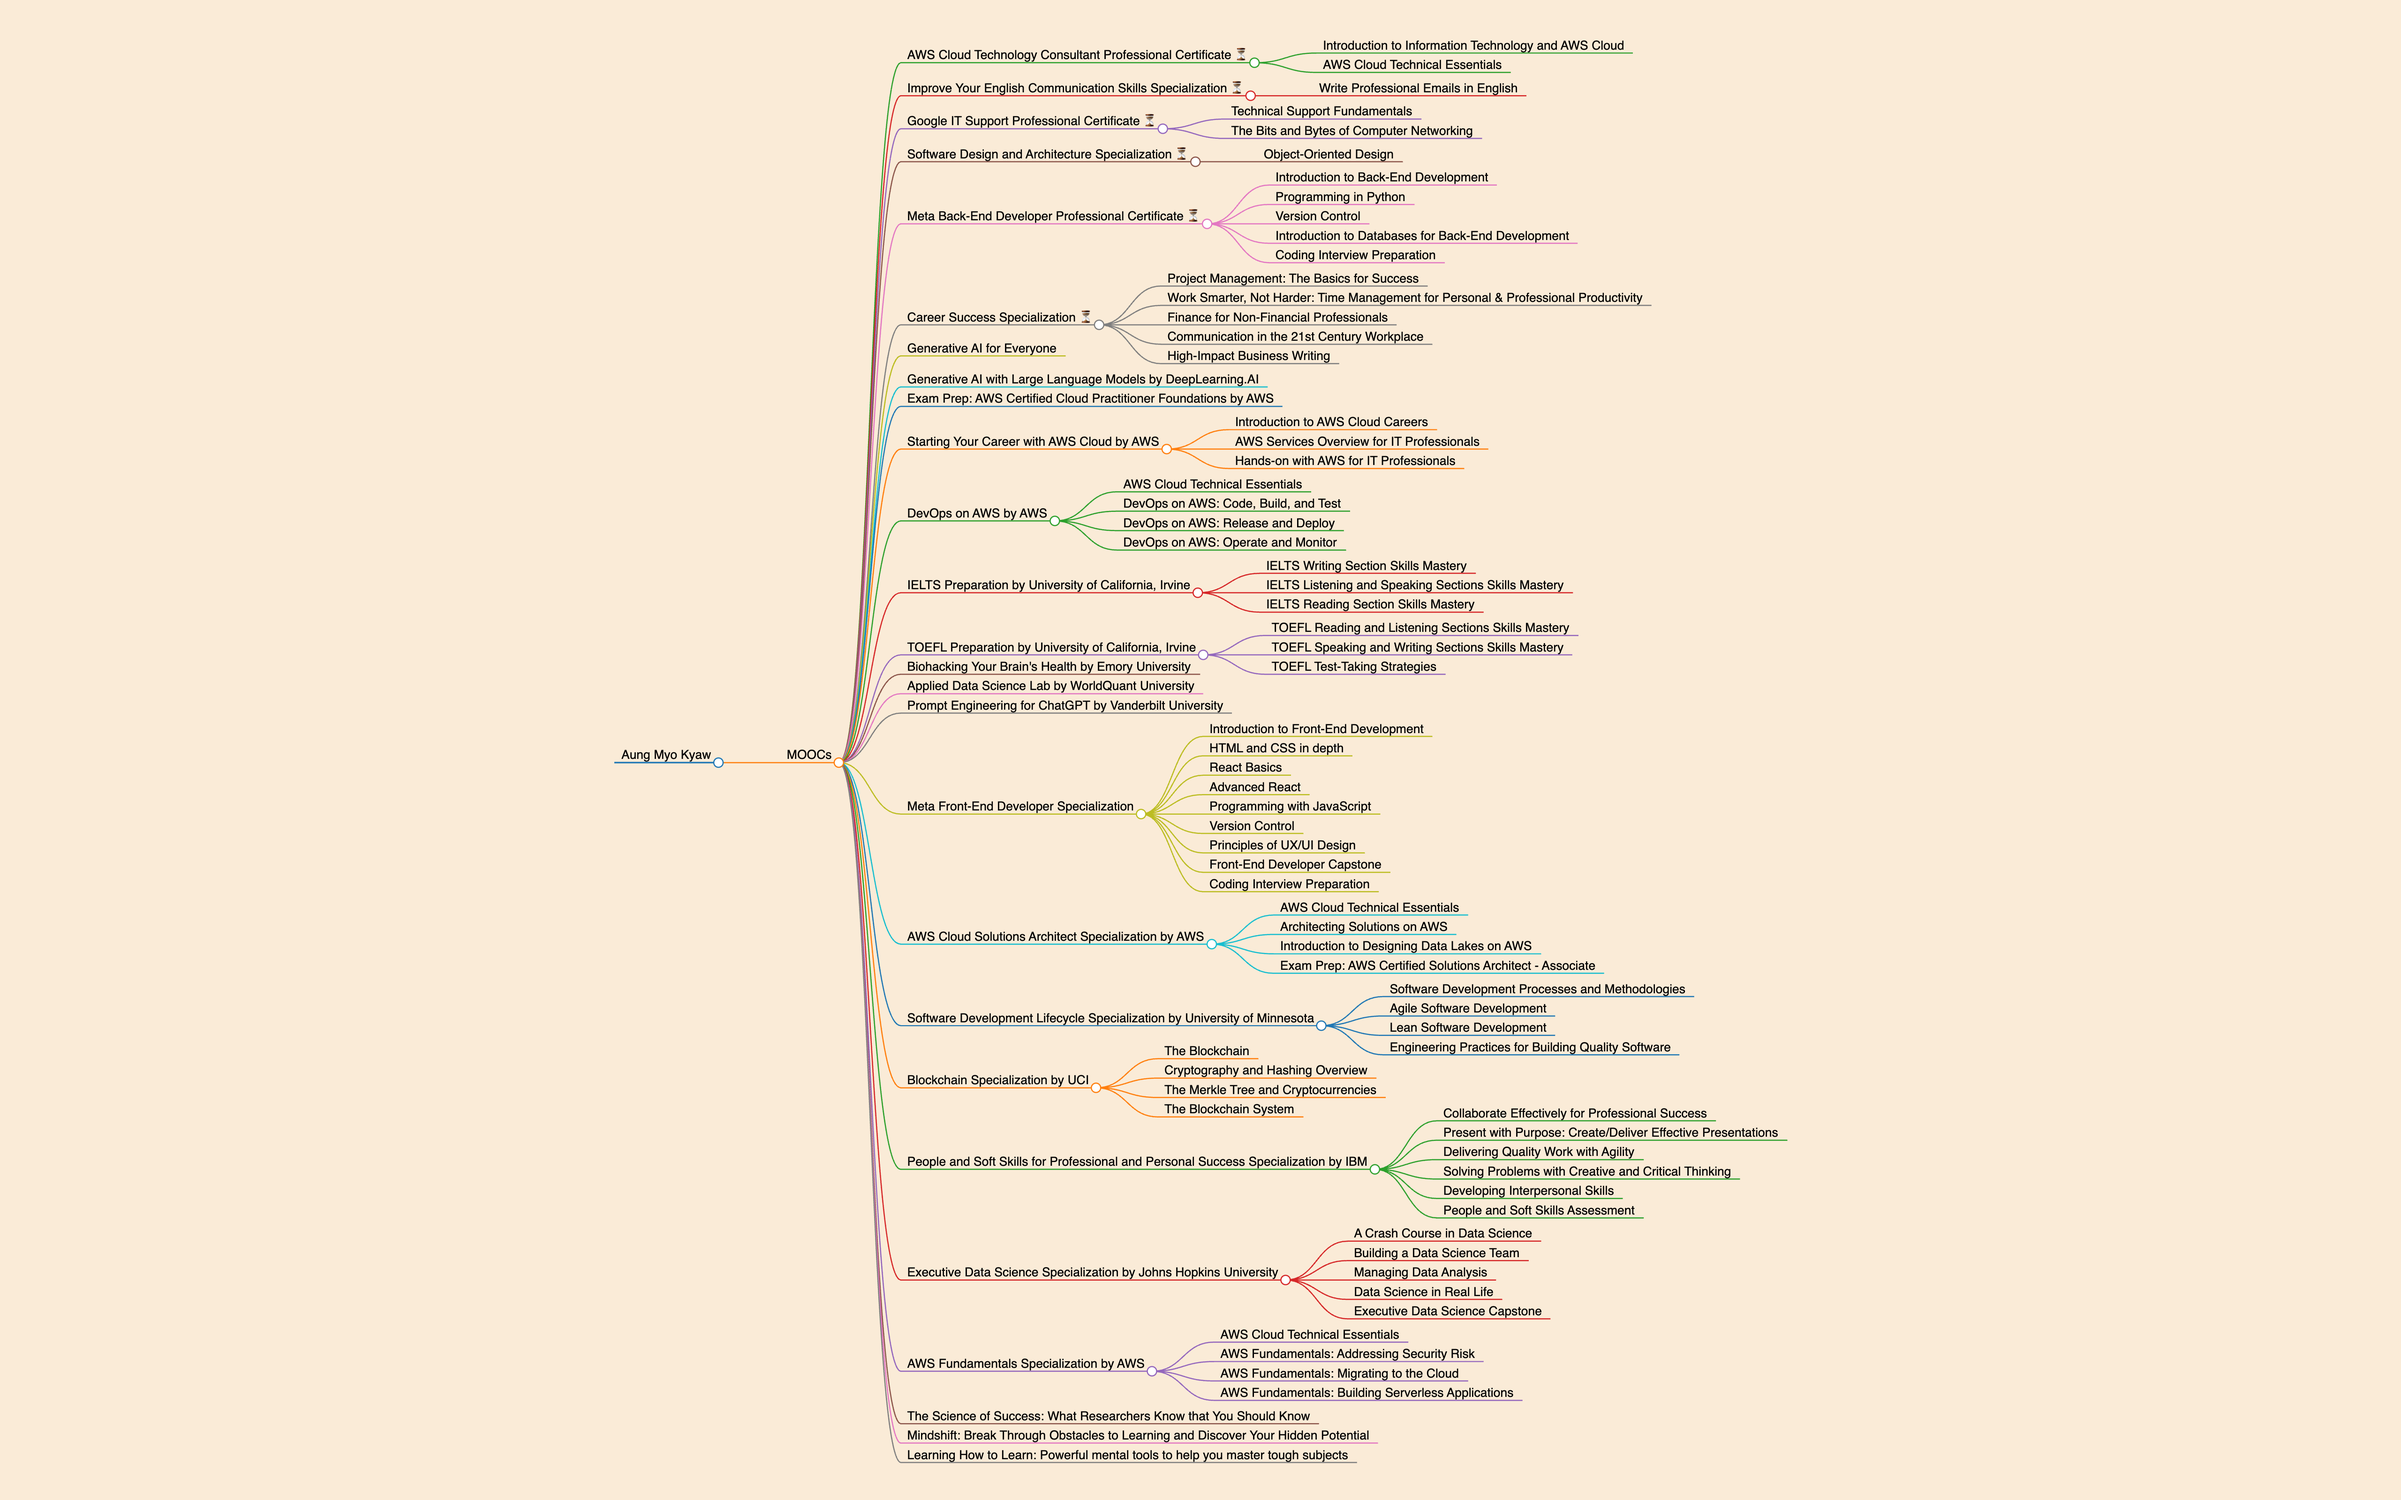
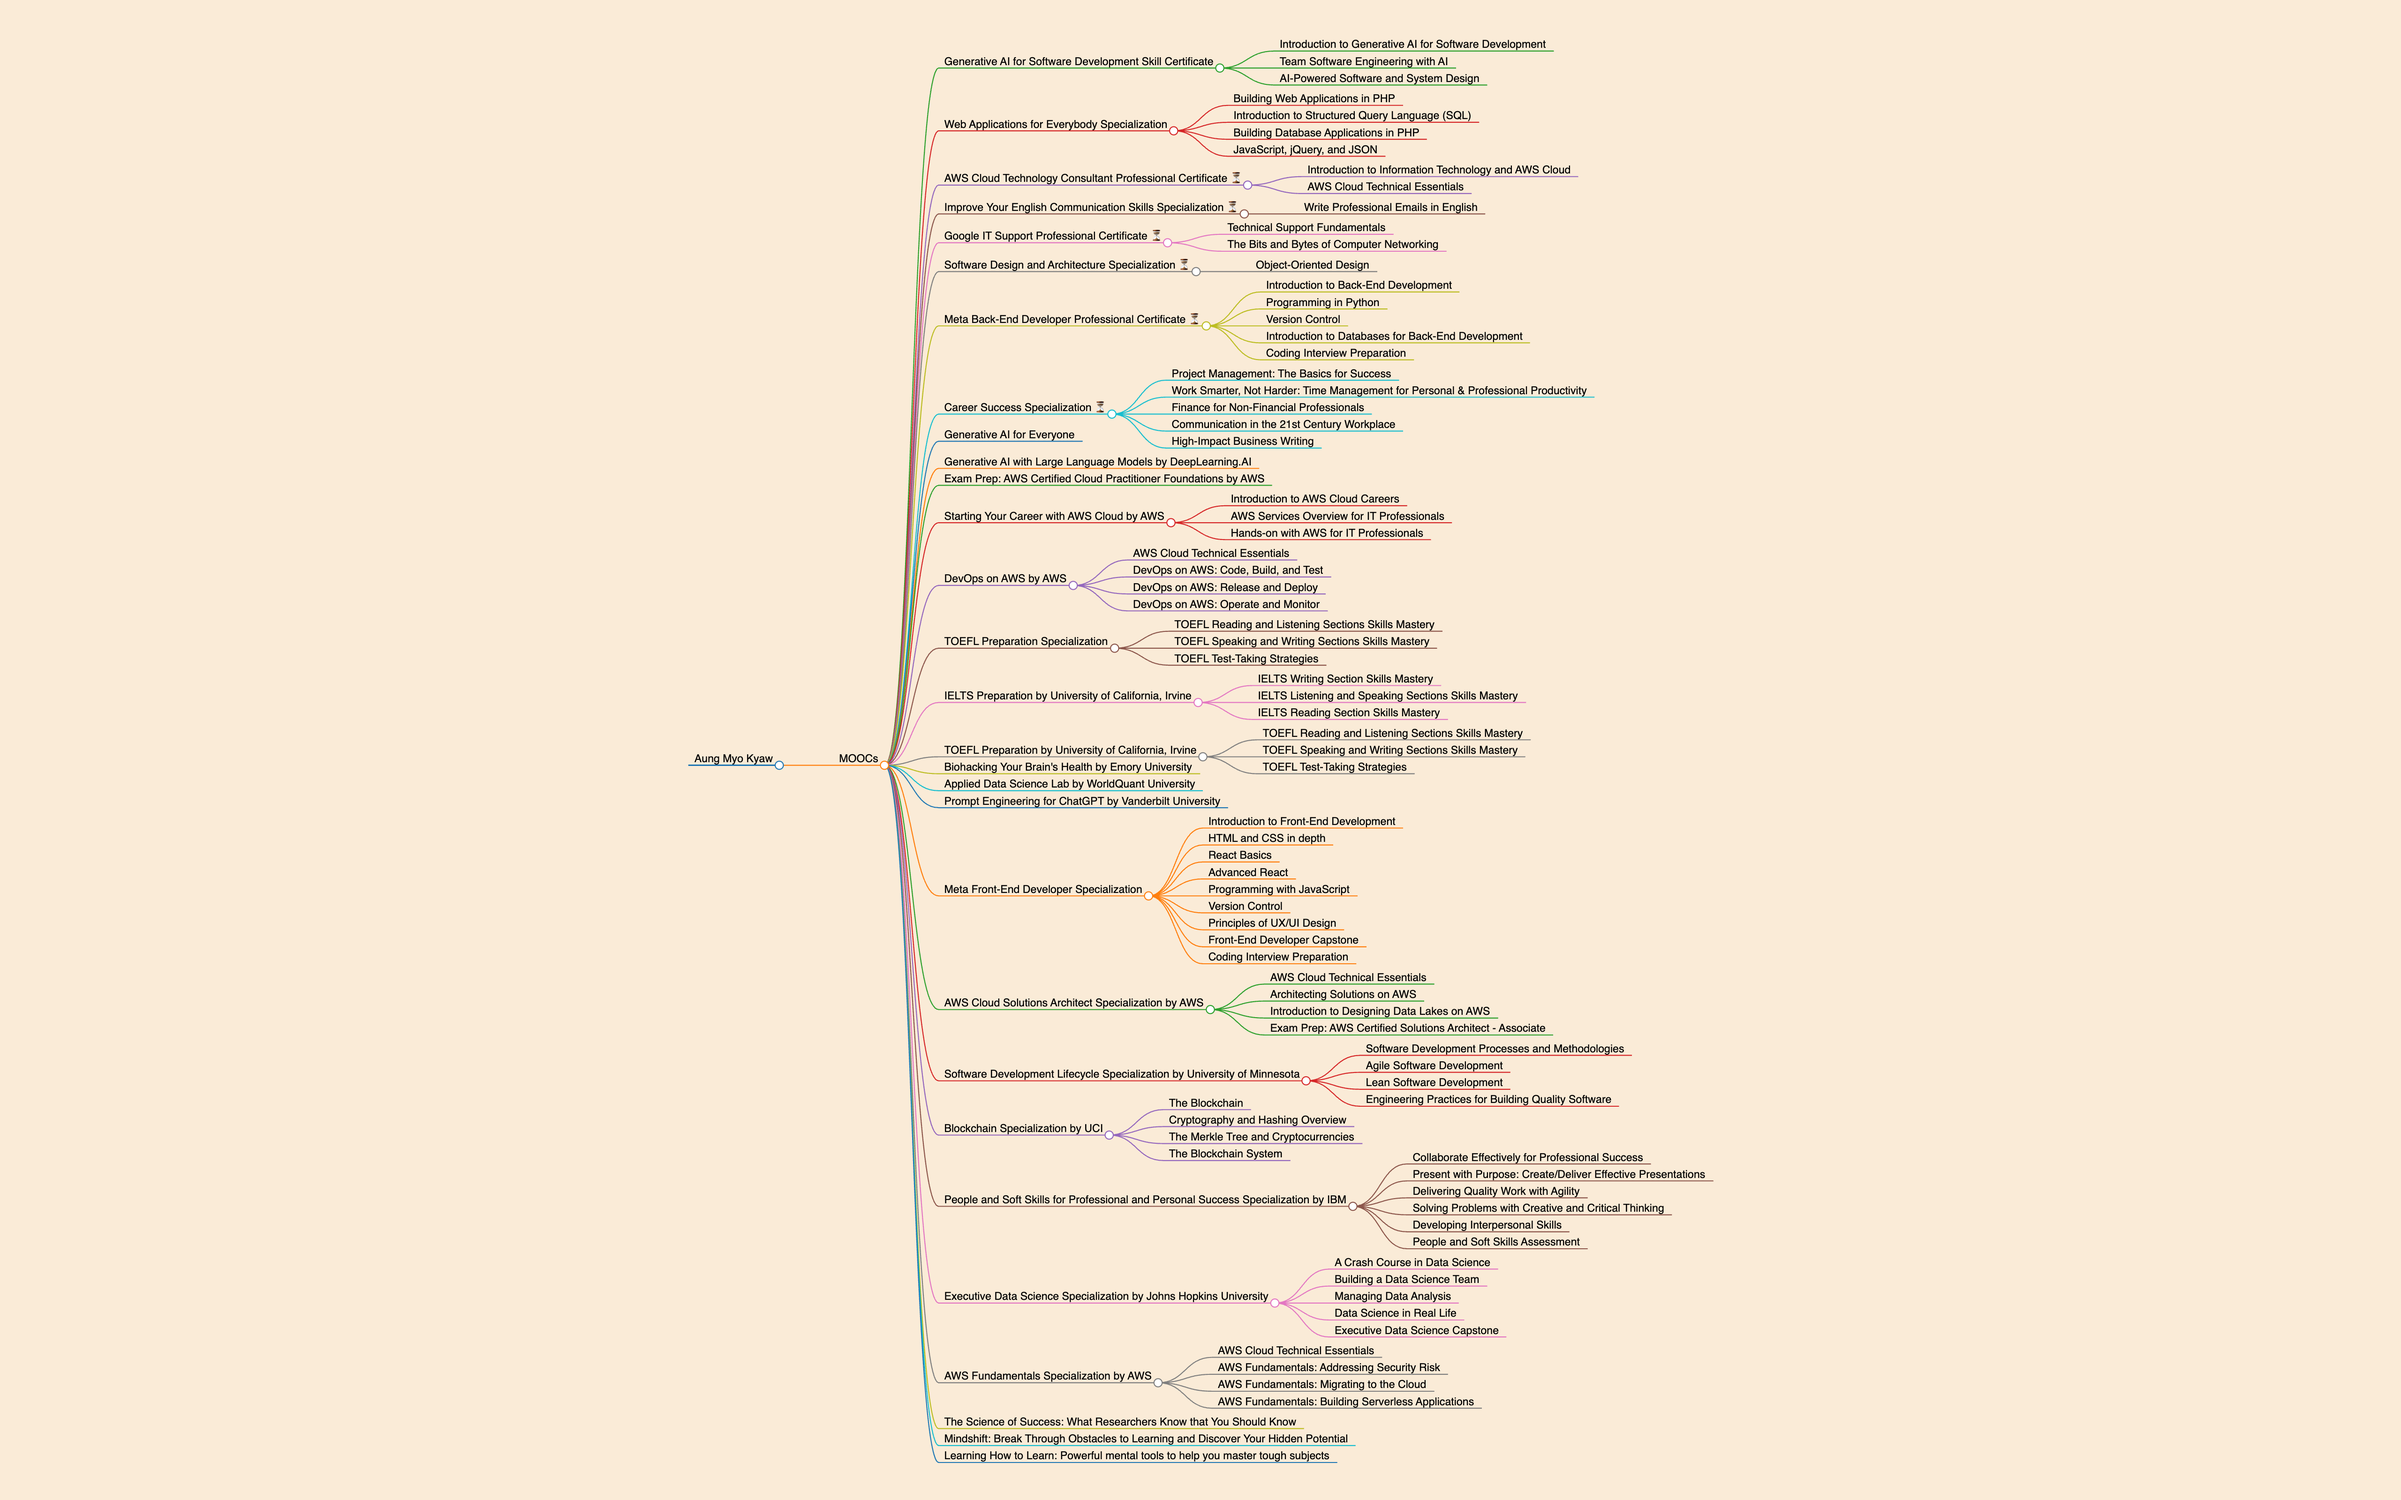
feat: update

Changed region(s): [[0.2812, 0.0312, 0.7188, 1.0]]

diff --git a/README.md b/README.md
@@ -23,6 +23,19 @@ markmap:
 
 ## [MOOCs](https://moocs.aungmyokyaw.com)
 
+### [Generative AI for Software Development Skill Certificate](https://www.coursera.org/account/accomplishments/specialization/certificate/IIVT58YEY97P)
+
+- [Introduction to Generative AI for Software Development](https://www.coursera.org/account/accomplishments/certificate/1KFB2LKG7QBX)
+- [Team Software Engineering with AI](https://www.coursera.org/account/accomplishments/certificate/U6J98JGB4H5T)
+- [AI-Powered Software and System Design](https://www.coursera.org/account/accomplishments/certificate/JMGY5AV71G8X)
+
+### [Web Applications for Everybody Specialization](https://www.coursera.org/account/accomplishments/specialization/certificate/RHZNGIL8I4FA)
+
+- [Building Web Applications in PHP](https://www.coursera.org/account/accomplishments/certificate/KJN81XAZWGC4)
+- [Introduction to Structured Query Language (SQL)](https://www.coursera.org/account/accomplishments/certificate/1DB3XZANZGE6)
+- [Building Database Applications in PHP](https://www.coursera.org/account/accomplishments/certificate/CK6G5AG0UC7O)
+- [JavaScript, jQuery, and JSON](https://www.coursera.org/account/accomplishments/certificate/9KMTI5ZW7NP4)
+
 ### [AWS Cloud Technology Consultant Professional Certificate ⏳](#)
 
 - [Introduction to Information Technology and AWS Cloud](https://www.coursera.org/account/accomplishments/certificate/J7YVW64D3USO)
@@ -75,6 +88,12 @@ markmap:
 - [DevOps on AWS: Code, Build, and Test](https://www.coursera.org/account/accomplishments/certificate/2GH4UJGV3VDH)
 - [DevOps on AWS: Release and Deploy](https://www.coursera.org/account/accomplishments/certificate/7QNHSQP44B3V)
 - [DevOps on AWS: Operate and Monitor](https://www.coursera.org/account/accomplishments/certificate/6D8HLEQ2M696)
+
+### [TOEFL Preparation Specialization](https://www.coursera.org/account/accomplishments/specialization/certificate/BA3GT7GYU533)
+
+- [TOEFL Reading and Listening Sections Skills Mastery](https://www.coursera.org/account/accomplishments/certificate/JBZZW394SBJQ)
+- [TOEFL Speaking and Writing Sections Skills Mastery](https://www.coursera.org/account/accomplishments/certificate/5ZMC2PPKKRE7)
+- [TOEFL Test-Taking Strategies](https://www.coursera.org/account/accomplishments/certificate/CEDEZZ4QSBWW)
 
 ### [IELTS Preparation by University of California, Irvine](https://www.coursera.org/account/accomplishments/specialization/certificate/B7EP3UEJKKP4)
 
